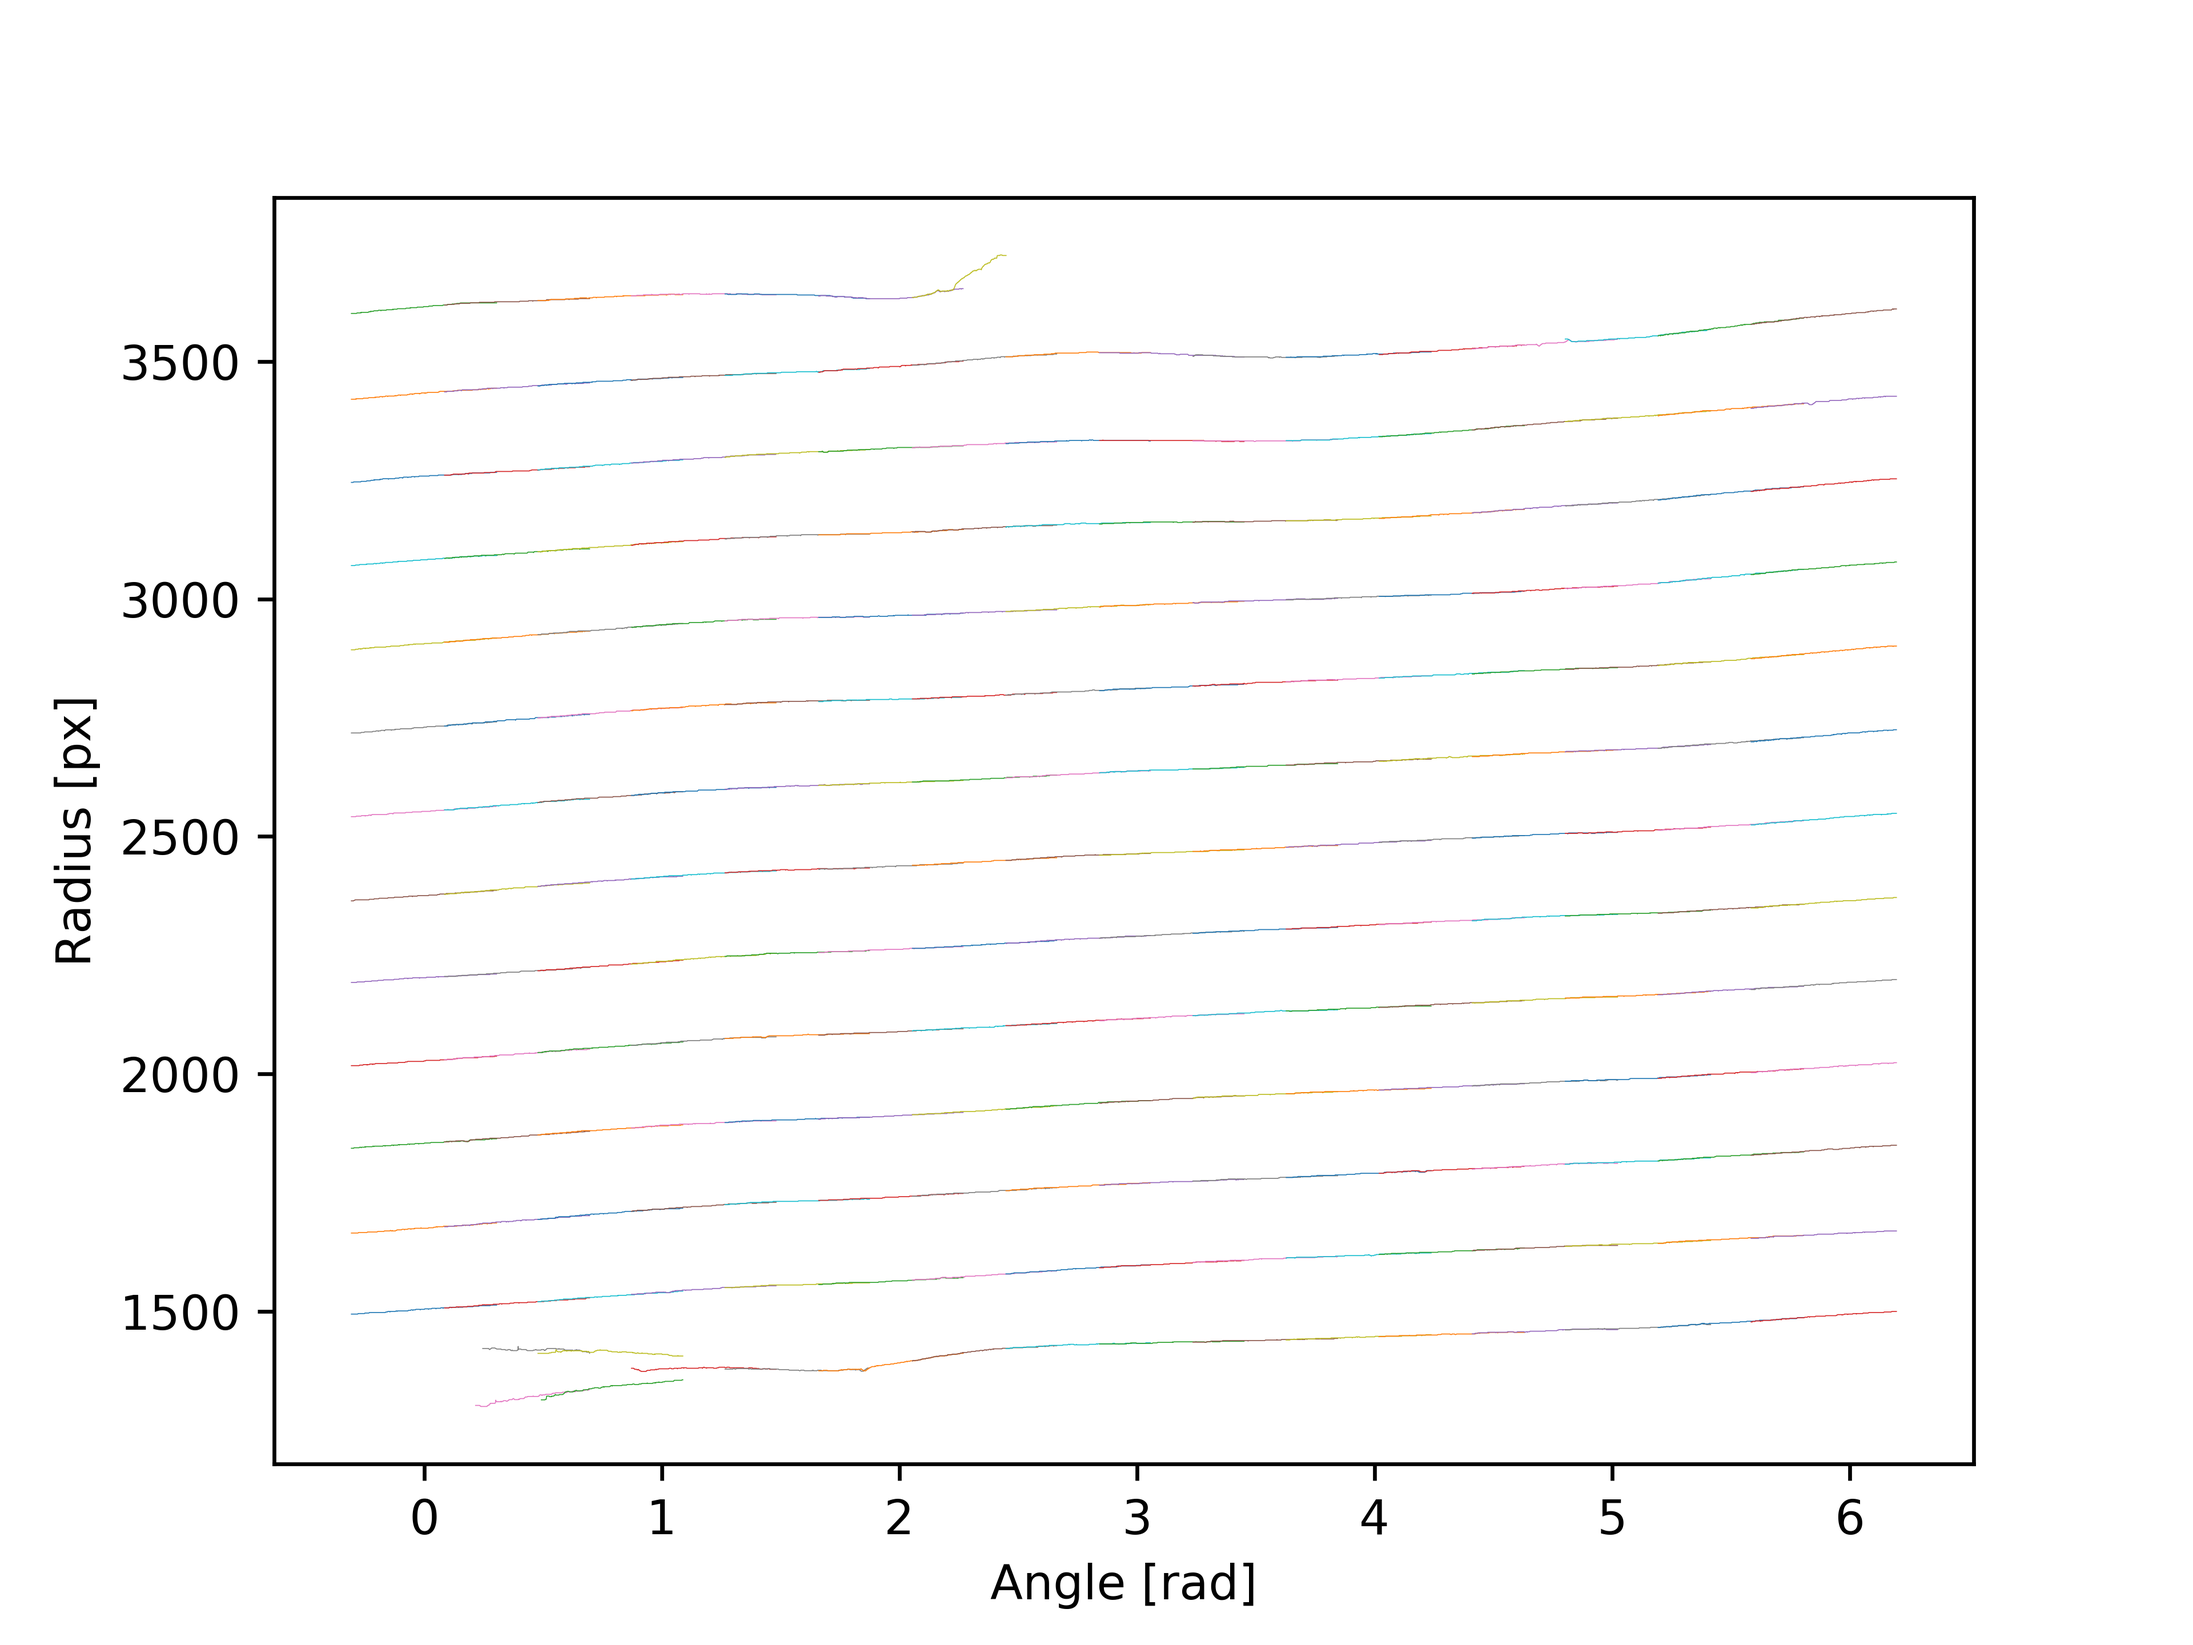
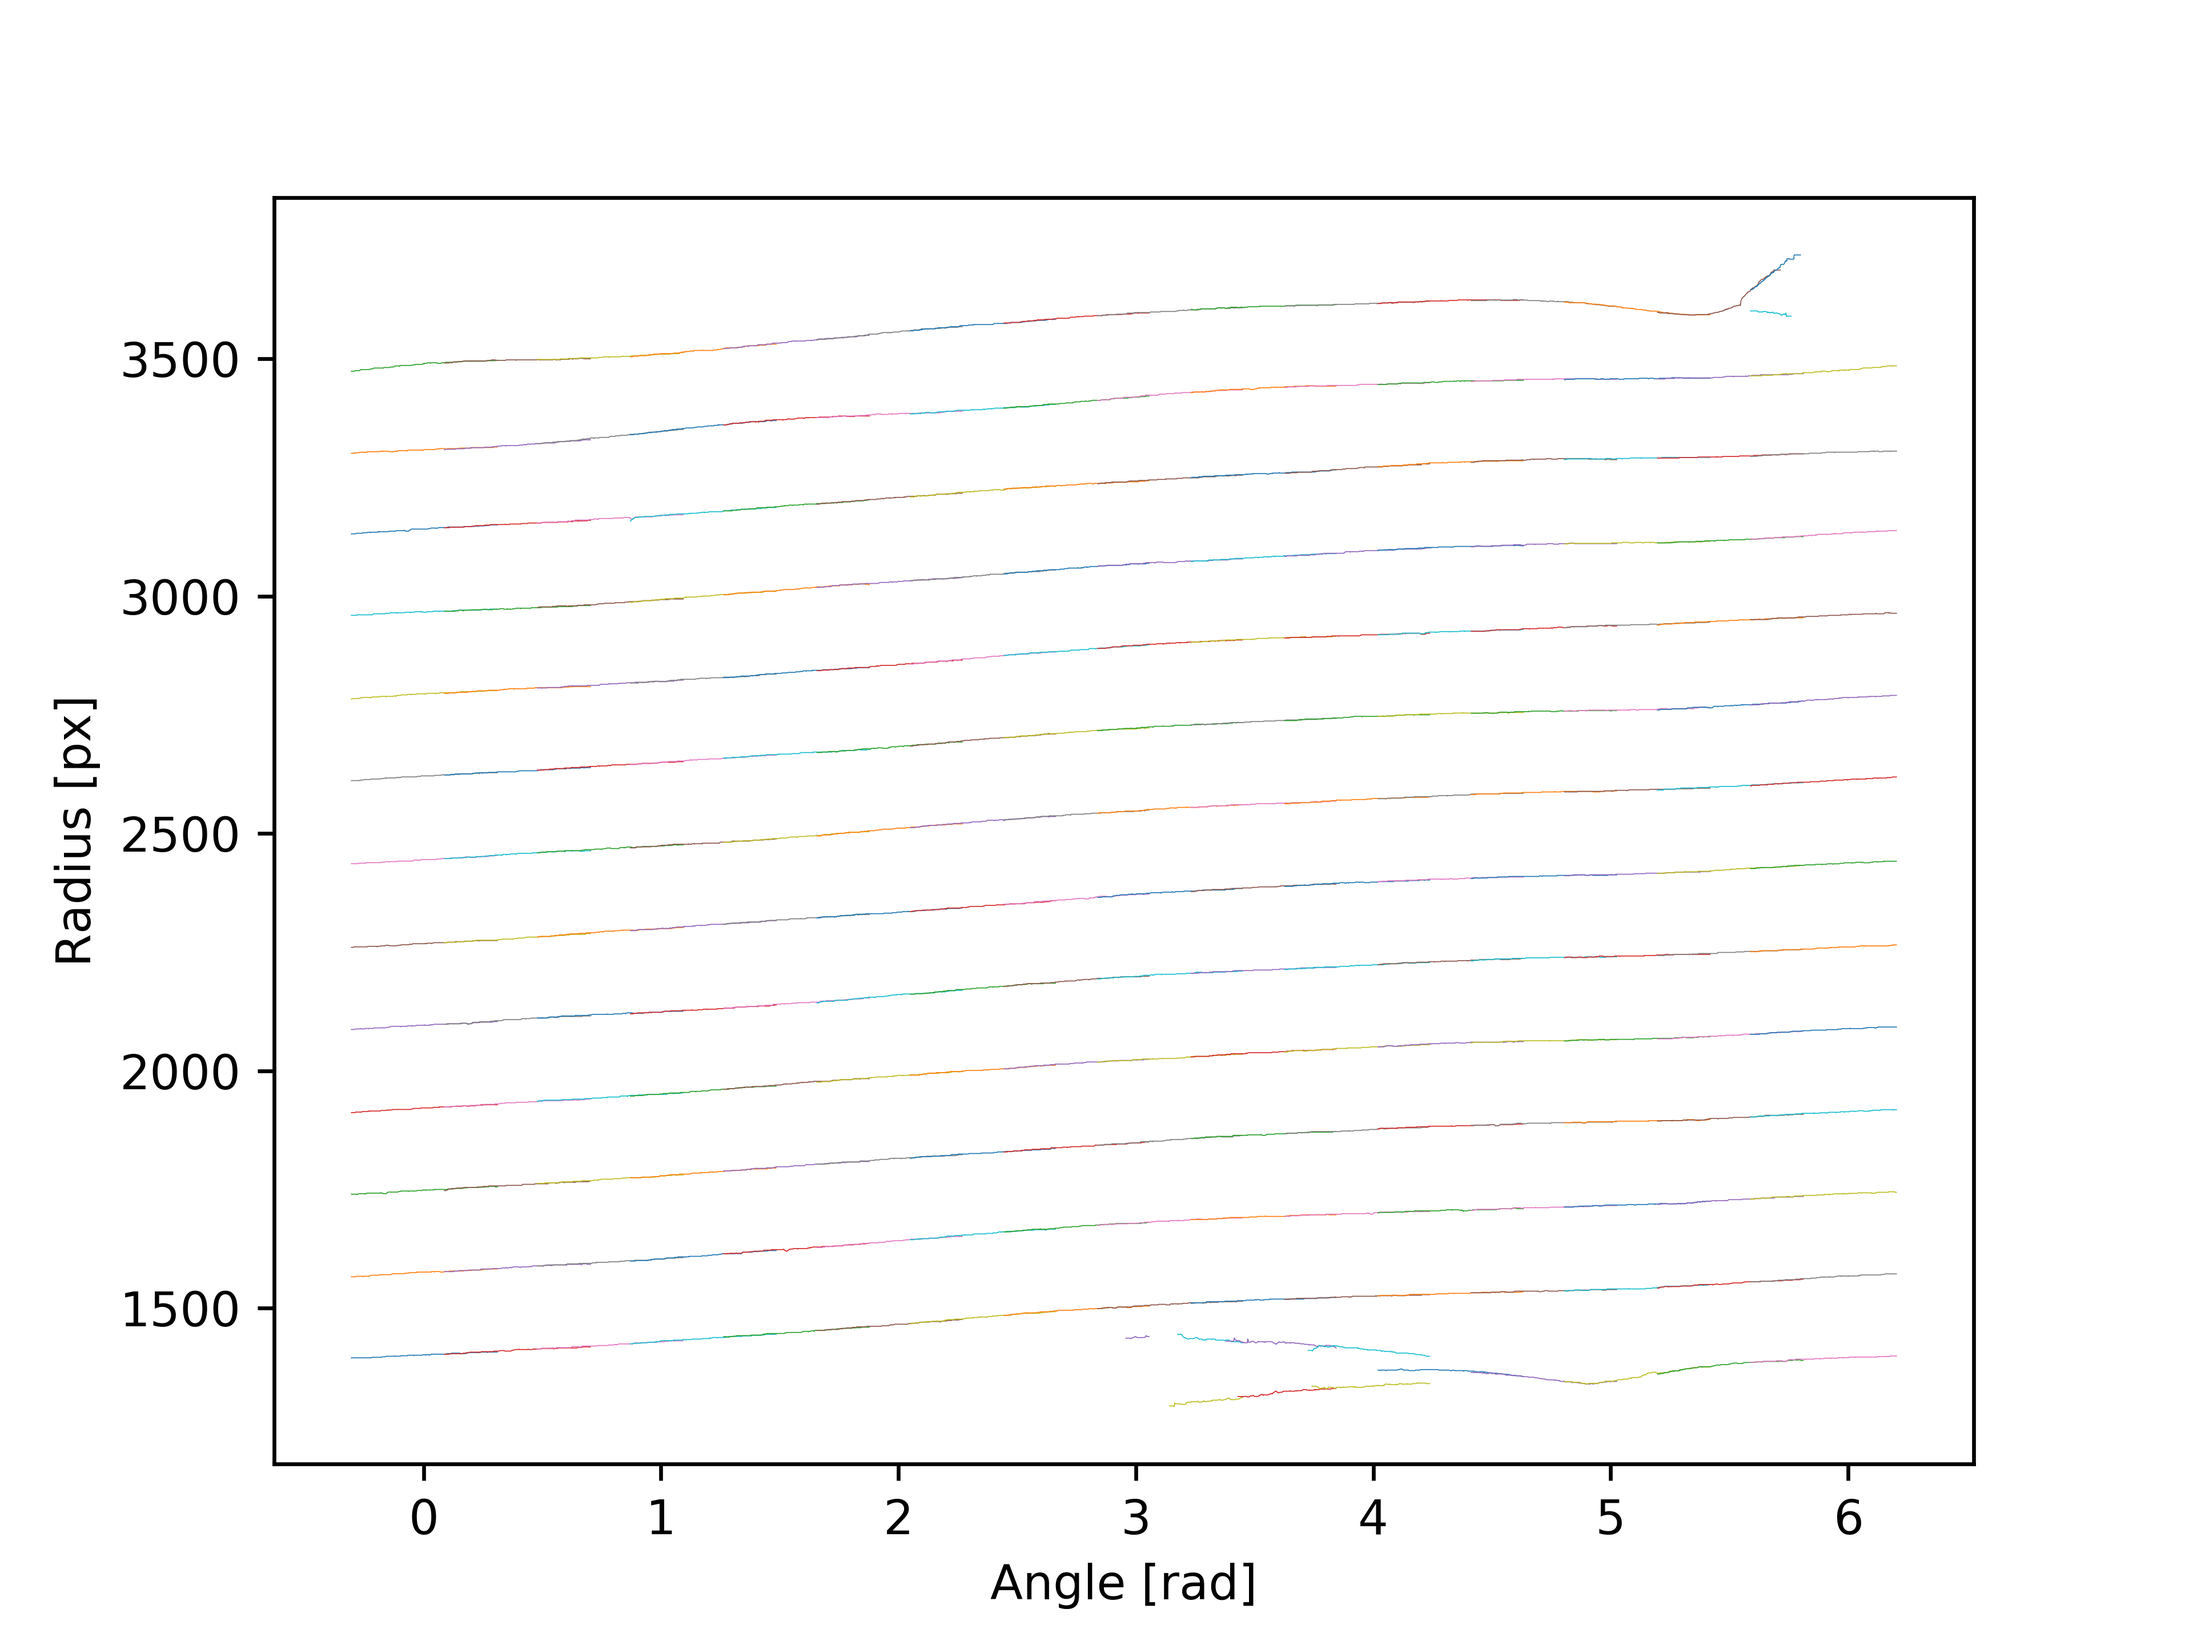
Morphology order & stitcher Robustness

diff --git a/applied/robustness_post.py b/applied/robustness_post.py
@@ -1,0 +1,66 @@
+import sys
+import os
+__location__ = os.path.realpath(
+    os.path.join(os.getcwd(), os.path.dirname(__file__)))
+sys.path.append(__location__)
+
+import matplotlib.pyplot as plt
+import h5py
+from electrode import Electrode
+
+
+class TestSet:
+
+    def __init__(self):
+        self.electrodes = []
+
+    def load(self, fn, corrections=False):
+        with h5py.File(__location__ + '/data/CSAT Robustness/Batch 1/' + fn, 'r') as f:
+            attributes = f.attrs
+            for attr in attributes:
+                setattr(self, attr, attributes[attr])
+            nGroups = 50
+            for i in range(nGroups):
+                gname = 'ITER_' + str(i + 1)
+                try:
+                    g = f[gname]
+                except KeyError:
+                    self.loss = nGroups - i
+                    break
+                phis = g['spiral'][0]
+                rs = g['spiral'][1]
+                calibration = g['calibration'][:]
+                chirality = -((i * 2) - 1)
+                scale = g.attrs['Scale']
+                payload = (phis, rs, scale, chirality)
+                self.electrodes.append(Electrode(self.serial, payload, calibration))
+
+    def angularAnalysis(self):
+        fig = plt.figure()
+        ax = fig.add_subplot(111)
+        for e in self.electrodes:
+            t0 = abs(e.phis[0])
+            tf = abs(e.phis[-1])
+            dt = max(t0, tf)
+
+            r0 = abs(e.rs[0])
+            rf = abs(e.rs[-1])
+            dr = max(r0, rf)
+            ax.scatter(dt, dr, color='red', marker='x')
+
+            print(dt, dr)
+        ax.set_xlabel('Angle [rad]')
+        ax.set_ylabel('Radius [mm]')
+
+        ax.set_title('Band endpoint variance')
+        fig.savefig(__location__ + '/data/CSAT Robustness/BandEndpointVariance.png', dpi=300)
+
+
+def main():
+    ts = TestSet()
+    ts.load('CSAT_ROBUSTNESS_L1.h5')
+    ts.angularAnalysis()
+
+
+if __name__ == '__main__':
+    main()

diff --git a/sectorImage/core/image.py b/sectorImage/core/image.py
@@ -269,6 +269,9 @@ class Image:
         #                      C=0)
 
         proc = proc.astype(np.uint8, copy=False)
+        Morphkernel = np.ones((11, 11), np.uint8)
+        cv2.dilate(proc, Morphkernel, proc)
+        cv2.erode(proc, Morphkernel, proc)
 
         # print('Connecting')
         # Label the complement regions of the binary image
@@ -292,12 +295,10 @@ class Image:
 
         # Combine foreground noise with with thresholded image
         cv2.bitwise_or(src1=proc, src2=labels, dst=proc)
-
-        Morphkernel = np.ones((11, 11), np.uint8)
-        cv2.dilate(proc, Morphkernel, proc)
-        cv2.erode(proc, Morphkernel, proc)
-
         filtered = np.copy(proc)
+        #Morphkernel = np.ones((11, 11), np.uint8)
+        #cv2.dilate(proc, Morphkernel, proc)
+        #cv2.erode(proc, Morphkernel, proc)
 
         # plot = True
         if plot:

diff --git a/sectorImage/core/stitcher.py b/sectorImage/core/stitcher.py
@@ -286,6 +286,7 @@ class Stitcher:
             others = [s for s in band_segments if s.identity != b.identity]
             # nearest_band, dr = self.getNearestSegment(b.ep, others, fraction=(1 / len(self.fns)))
             nearest_band, dr = self.getNearestSegment(b.ep, others)
+            print(dr)
             if dr < 10.0:
                 contained = False
                 for g in band_groups:

diff --git a/sectorImage/core/midpoints.py b/sectorImage/core/midpoints.py
@@ -212,7 +212,7 @@ class Walker:
                     termination = -1
                 current.append(head[:])
             # min_length = 50
-            min_length = 3
+            min_length = 50
             if len(current) > min_length:
                 coords.append(current[:])
                 endpoints.append(head[:])
